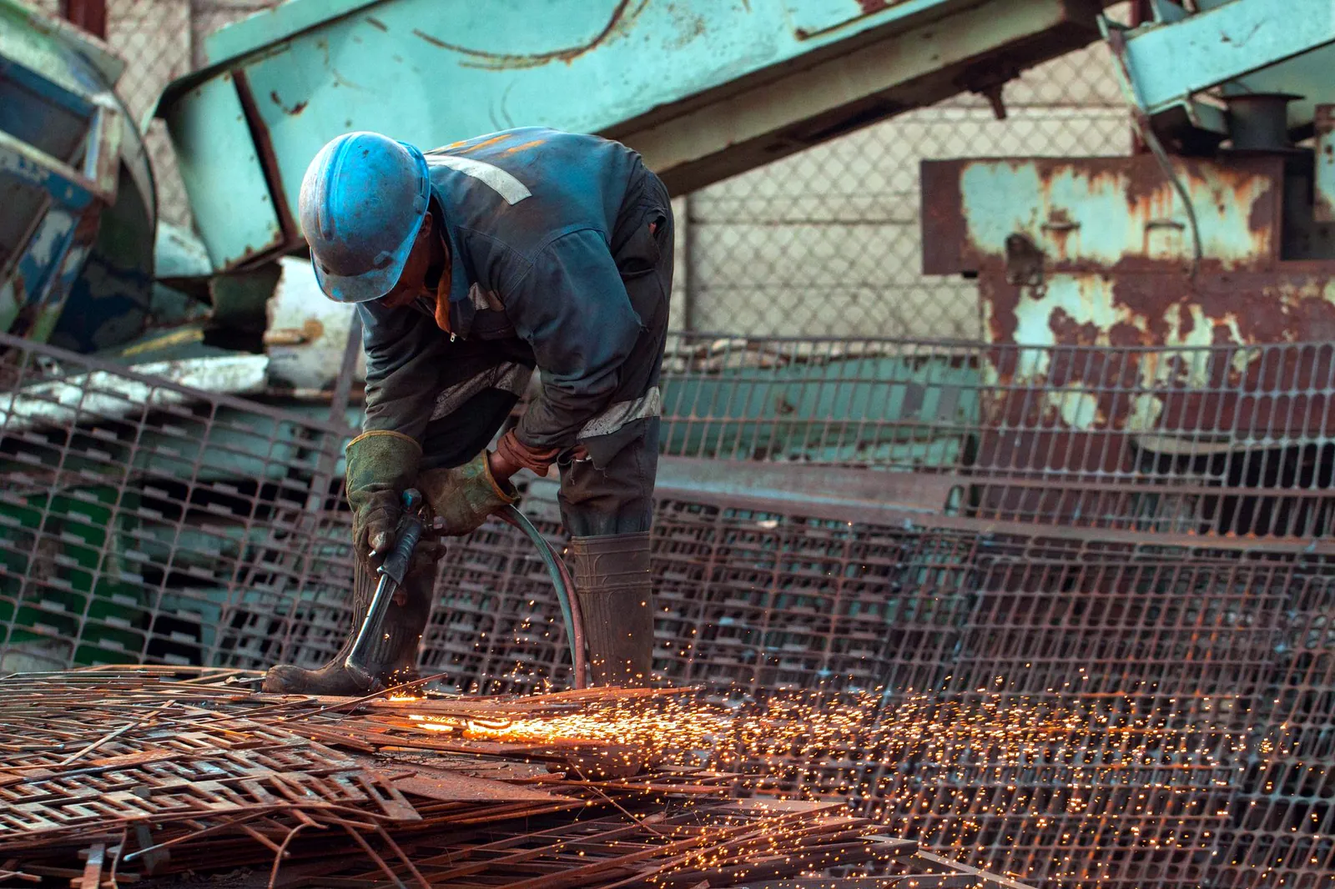
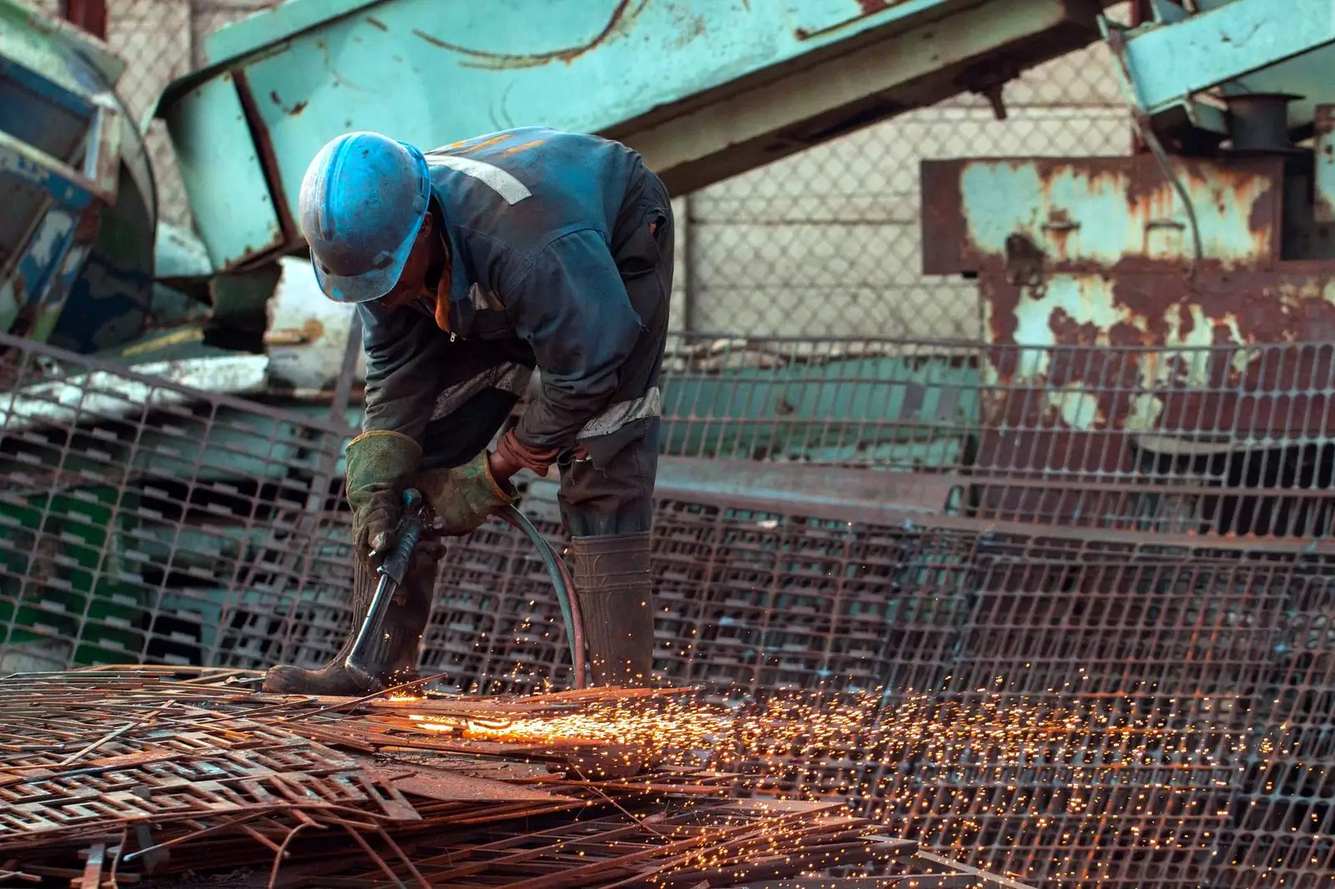
Оптимизация: скорост и подредба
- Начало: цените от 7-ма на 3-та позиция; нов ред материали → цени →
  процес → бизнес → доверие → услуги, с чиста алтернация на фоновете
- „За фирми" в главното меню на всичките 45 страници
- Херо: WebP версии (76 KB на мобилно вместо 261 KB JPG)
- Кадърът с искрите пресвит (243→166 KB)
- Scroll анимациите ускорени (.7s/24px → .4s/10px) — по-леко усещане

Claude-Session: https://claude.ai/code/session_01MrD7Hzjf8NbetQwwJgFMcP

Changed region(s): [[0.3125, 0.7739, 0.8438, 0.8668], [0.6562, 0.9906, 0.6875, 1.0]]

diff --git a/index.html b/index.html
@@ -173,6 +173,7 @@
       <li><a href="/kakvo-izkupuvame/">Какво изкупуваме</a></li>
       <li><a href="/uslugi/">Услуги</a></li>
       <li><a href="/ceni/">Цени</a></li>
+      <li><a href="/izkupuvane-metal/">За фирми</a></li>
       <li><a href="/za-nas/">За нас</a></li>
       <li><a href="/blog/">Блог</a></li>
       <li><a href="/kontakti/">Контакти</a></li>
@@ -214,7 +215,7 @@
   <div class="hero-img">
     <picture>
       <source type="image/webp" srcset="images/zhelezen-skrap-800.webp 800w, images/zhelezen-skrap.webp 1400w" sizes="(max-width:900px) 100vw, 45vw">
-      <img fetchpriority="high" decoding="async" width="1400" height="934" src="images/zhelezen-skrap.jpg" srcset="images/zhelezen-skrap-800.jpg 800w, images/zhelezen-skrap.jpg 1400w" sizes="(max-width:900px) 100vw, 45vw" alt="Изкупуване на железен скрап и черни метали в София" style="width:100%;height:100%;object-fit:cover;object-position:center;">
+      <picture><source type="image/webp" srcset="images/zhelezen-skrap-800.webp 800w, images/zhelezen-skrap.webp 1400w" sizes="(max-width:900px) 100vw, 45vw"><img fetchpriority="high" decoding="async" width="1400" height="934" src="images/zhelezen-skrap.jpg" srcset="images/zhelezen-skrap-800.jpg 800w, images/zhelezen-skrap.jpg 1400w" sizes="(max-width:900px) 100vw, 45vw" alt="Изкупуване на железен скрап и черни метали в София" style="width:100%;height:100%;object-fit:cover;object-position:center;"></picture>
     </picture>
   </div>
 </section>
@@ -249,100 +250,6 @@
       </a>
     </div>
     <div style="margin-top:28px;"><a href="/kakvo-izkupuvame/" style="color:var(--green);font-weight:700;display:inline-flex;align-items:center;gap:6px">Вижте всичко, което изкупуваме →</a></div>
-  </div>
-</section>
-
-<section class="section biz-teaser">
-  <div class="container">
-    <div class="section-label-dark">За бизнеса</div>
-    <div style="display:flex;justify-content:space-between;align-items:flex-end;gap:24px;flex-wrap:wrap;">
-      <h2 class="section-title-dark">Бизнесът Ви генерира метални отпадъци?</h2>
-      <p class="section-body-dark" style="max-width:440px;">За фирми поемаме всичко — контейнер на обекта, рязане, извозване и документите. Оферта след оглед.</p>
-    </div>
-    <div class="biz-mini">
-      <a href="/izkupuvane-metal/stroitelstvo/" class="biz-chip"><div class="ic"><svg width="22" height="22" viewBox="0 0 24 24" fill="none" stroke="#fff" stroke-width="1.8" stroke-linecap="round" stroke-linejoin="round" aria-hidden="true"><rect x="4" y="2" width="16" height="20" rx="1.5"/><path d="M9 7h0M15 7h0M9 11h0M15 11h0M9 15h0M15 15h0"/><path d="M10 22v-4h4v4"/></svg></div><h3>Строителство</h3><p>Арматура, кофраж и метал от обекти и събаряне.</p></a>
-      <a href="/izkupuvane-metal/proizvodstvo/" class="biz-chip"><div class="ic"><svg width="22" height="22" viewBox="0 0 24 24" fill="none" stroke="#fff" stroke-width="1.8" stroke-linecap="round" stroke-linejoin="round" aria-hidden="true"><path d="M2 20h20"/><path d="M4 20V9l6 4V9l6 4V6l4 2v12"/><path d="M7 16h0M13 16h0"/></svg></div><h3>Производство и металообработка</h3><p>Изрезки, стружки и технологичен отпадък.</p></a>
-      <a href="/izkupuvane-metal/zemedelie/" class="biz-chip"><div class="ic"><svg width="22" height="22" viewBox="0 0 24 24" fill="none" stroke="#fff" stroke-width="1.8" stroke-linecap="round" stroke-linejoin="round" aria-hidden="true"><circle cx="7" cy="17" r="3"/><circle cx="18" cy="17" r="2"/><path d="M4 17V7h6l3 6h5"/><path d="M10 7V5h4"/></svg></div><h3>Земеделие</h3><p>Бракувана техника, инвентар и конструкции.</p></a>
-      <a href="/izkupuvane-metal/brakuvane/" class="biz-chip"><div class="ic"><svg width="22" height="22" viewBox="0 0 24 24" fill="none" stroke="#fff" stroke-width="1.8" stroke-linecap="round" stroke-linejoin="round" aria-hidden="true"><path d="m14 13-7.5 7.5a2.12 2.12 0 0 1-3-3L11 10"/><path d="m16 16 6-6"/><path d="m8 8 6-6"/><path d="m9 7 8 8"/><path d="m21 11-8-8"/></svg></div><h3>Бракуване на активи</h3><p>Машини, съоръжения и ДМА — оценка и извозване.</p></a>
-    </div>
-    <div style="margin-top:28px;"><a href="/izkupuvane-metal/" class="btn btn-primary">Решения за бизнеса →</a></div>
-  </div>
-</section>
-
-<section class="feature-band" id="cutting">
-  <div class="container">
-    <div class="feature-split">
-      <div>
-        <div class="section-label">Услуги</div>
-        <h2 class="section-title" style="margin-bottom:16px;">Газокислородно рязане и демонтаж</h2>
-        <p class="section-body" style="margin-bottom:24px;">Разполагаме с оборудване за газокислородно рязане на метални конструкции. Демонтираме стари машини, съоръжения и метални конструкции директно на вашия обект.</p>
-        <a href="/uslugi/demontazh/" style="color:var(--yellow);font-weight:700;display:inline-flex;align-items:center;gap:6px">Научете повече за рязането →</a>
-      </div>
-      <div class="feature-img">
-        <picture><source type="image/webp" srcset="images/ryazane-metal-iskri.webp"><img loading="lazy" decoding="async" width="1920" height="1280" src="images/ryazane-metal-iskri.jpg" alt="Газокислородно рязане на метал — искри при демонтаж" class="media-cover"></picture>
-      </div>
-    </div>
-  </div>
-</section>
-
-<section class="section about-section" id="about">
-  <div class="container">
-    <div class="about-grid">
-      <picture><source type="image/webp" srcset="images/ploshtadka-progres-treyd.webp"><img loading="lazy" decoding="async" width="667" height="1000" class="about-img" src="images/ploshtadka-progres-treyd.jpg" alt="Площадка за изкупуване на скрап Прогрестрейд в София"></picture>
-      <div class="about-content">
-        <div>
-          <div class="section-label-dark">За нас</div>
-          <h2 class="section-title-dark" style="margin-bottom:16px;">Над 20 години опит в отрасъла</h2>
-          <p class="section-body-dark">Прогрестрейд работи на пазара за изкупуване на черни метали от 2002 г. Дългогодишният ни опит ни позволява да предлагаме конкурентни изкупни цени в София.</p>
-        </div>
-        <div class="advantages-grid">
-          <div class="advantage">
-            <div class="advantage-icon"><svg width="22" height="22" viewBox="0 0 24 24" fill="none" stroke="white" stroke-width="1.8" stroke-linecap="round" stroke-linejoin="round" aria-hidden="true"><path d="M12.586 2.586A2 2 0 0 0 11.172 2H4a2 2 0 0 0-2 2v7.172a2 2 0 0 0 .586 1.414l8.704 8.704a2.426 2.426 0 0 0 3.42 0l6.58-6.58a2.426 2.426 0 0 0 0-3.42z"/><circle cx="7.5" cy="7.5" r="1.2"/></svg></div>
-            <div><h3>Най-високи цени в София</h3><p>Гарантирано конкурентни изкупни цени — сравнете и вижте разликата.</p></div>
-          </div>
-          <div class="advantage">
-            <div class="advantage-icon"><svg width="22" height="22" viewBox="0 0 24 24" fill="none" stroke="white" stroke-width="1.8" stroke-linecap="round" stroke-linejoin="round" aria-hidden="true"><path d="M14 18V6a2 2 0 0 0-2-2H4a2 2 0 0 0-2 2v11a1 1 0 0 0 1 1h2"/><path d="M15 18H9"/><path d="M19 18h2a1 1 0 0 0 1-1v-3.65a1 1 0 0 0-.22-.62l-3.48-4.35A1 1 0 0 0 17.52 8H14"/><circle cx="7" cy="18" r="2"/><circle cx="17" cy="18" r="2"/></svg></div>
-            <div><h3>Бързо и лесно разтоварване</h3><p>Нашата товаро-разтоварна техника прави разтоварването лесно и безпроблемно.</p></div>
-          </div>
-          <div class="advantage">
-            <div class="advantage-icon"><svg width="22" height="22" viewBox="0 0 24 24" fill="none" stroke="white" stroke-width="1.8" stroke-linecap="round" stroke-linejoin="round" aria-hidden="true"><circle cx="12" cy="5" r="3"/><path d="M6.5 8h11l1.95 9.76A2 2 0 0 1 17.5 20h-11a2 2 0 0 1-1.95-2.24z"/></svg></div>
-            <div><h3>Точно измерване</h3><p>Калибрирани електронни везни и прозрачна процедура на приемане.</p></div>
-          </div>
-          <div class="advantage">
-            <div class="advantage-icon"><svg width="22" height="22" viewBox="0 0 24 24" fill="none" stroke="white" stroke-width="1.8" stroke-linecap="round" stroke-linejoin="round" aria-hidden="true"><path d="M16 21v-2a4 4 0 0 0-4-4H6a4 4 0 0 0-4 4v2"/><circle cx="9" cy="7" r="4"/><path d="M22 21v-2a4 4 0 0 0-3-3.87"/><path d="M16 3.13a4 4 0 0 1 0 7.75"/></svg></div>
-            <div><h3>Дружелюбен персонал</h3><p>Опитните ни служители ще ви помогнат с всеки въпрос.</p></div>
-          </div>
-        </div>
-      </div>
-    </div>
-  </div>
-</section>
-
-<section class="section clients-section" id="clients">
-  <div class="container">
-    <div style="text-align:center;margin-bottom:48px;">
-      <div class="section-label-dark" style="display:inline-block;">Наши партньори</div>
-      <h2 class="section-title-dark" style="text-align:center;">Работим с водещи компании</h2>
-    </div>
-    <div class="clients-grid">
-      <div class="client-logo"><picture><source type="image/webp" srcset="images/erb-group.webp"><img loading="lazy" decoding="async" width="400" height="227" src="images/erb-group.png" alt="ERB Group"></picture></div>
-      <div class="client-logo"><picture><source type="image/webp" srcset="images/geotechmin.webp"><img loading="lazy" decoding="async" width="400" height="84" src="images/geotechmin.png" alt="Geotechmin"></picture></div>
-      <div class="client-logo"><picture><source type="image/webp" srcset="images/skf.webp"><img loading="lazy" decoding="async" width="400" height="103" src="images/skf.png" alt="SKF"></picture></div>
-      <div class="client-logo"><picture><source type="image/webp" srcset="images/se-ead.webp"><img loading="lazy" decoding="async" width="400" height="172" src="images/se-ead.jpg" alt="СЕ ЕАД"></picture></div>
-    </div>
-  </div>
-</section>
-
-<section class="section steps-section" id="how">
-  <div class="container">
-    <div style="text-align:center;margin-bottom:8px;"><div class="section-label-dark" style="display:inline-block;">Процес</div></div>
-    <h2 class="section-title-dark" style="text-align:center;margin-bottom:0;">Как работи?</h2>
-    <div class="steps-grid">
-      <div class="step-card"><div class="step-num">1</div><h3>Обадете се</h3><p>Свържете се с нас и ни опишете какво имате за продажба.</p></div>
-      <div class="step-card"><div class="step-num">2</div><h3>Оценка</h3><p>Даваме ви цена веднага — по телефона или след оглед на материала.</p></div>
-      <div class="step-card"><div class="step-num">3</div><h3>Докарвате отпадъка или ние го взимаме от адрес</h3><p>При по-големи количества организираме транспорт и товарене на ваш адрес.</p></div>
-      <div class="step-card"><div class="step-num">4</div><h3>Плащаме веднага</h3><p>Получавате мигновенно плащане.</p></div>
-    </div>
   </div>
 </section>
 
@@ -395,6 +302,100 @@
       </div>
     </div>
     <p style="margin-top:20px;font-size:13px;color:rgba(255,255,255,0.6);line-height:1.6;">* Цените са ориентировъчни, в евро на тон, за материал, доставен на нашата площадка, и следват борсовите котировки. Обновени на 04.07.2026 г. За по-големи количества, редовно обслужване с контейнери или товарене от ваш адрес правим <a href="/ceni/" style="color:rgba(255,255,255,0.85);text-decoration:underline;">индивидуална оферта</a> — обадете се на 0877 77 55 77.</p>
+  </div>
+</section>
+
+<section class="section steps-section" id="how">
+  <div class="container">
+    <div style="text-align:center;margin-bottom:8px;"><div class="section-label-dark" style="display:inline-block;">Процес</div></div>
+    <h2 class="section-title-dark" style="text-align:center;margin-bottom:0;">Как работи?</h2>
+    <div class="steps-grid">
+      <div class="step-card"><div class="step-num">1</div><h3>Обадете се</h3><p>Свържете се с нас и ни опишете какво имате за продажба.</p></div>
+      <div class="step-card"><div class="step-num">2</div><h3>Оценка</h3><p>Даваме ви цена веднага — по телефона или след оглед на материала.</p></div>
+      <div class="step-card"><div class="step-num">3</div><h3>Докарвате отпадъка или ние го взимаме от адрес</h3><p>При по-големи количества организираме транспорт и товарене на ваш адрес.</p></div>
+      <div class="step-card"><div class="step-num">4</div><h3>Плащаме веднага</h3><p>Получавате мигновенно плащане.</p></div>
+    </div>
+  </div>
+</section>
+
+<section class="section biz-teaser">
+  <div class="container">
+    <div class="section-label-dark">За бизнеса</div>
+    <div style="display:flex;justify-content:space-between;align-items:flex-end;gap:24px;flex-wrap:wrap;">
+      <h2 class="section-title-dark">Бизнесът Ви генерира метални отпадъци?</h2>
+      <p class="section-body-dark" style="max-width:440px;">За фирми поемаме всичко — контейнер на обекта, рязане, извозване и документите. Оферта след оглед.</p>
+    </div>
+    <div class="biz-mini">
+      <a href="/izkupuvane-metal/stroitelstvo/" class="biz-chip"><div class="ic"><svg width="22" height="22" viewBox="0 0 24 24" fill="none" stroke="#fff" stroke-width="1.8" stroke-linecap="round" stroke-linejoin="round" aria-hidden="true"><rect x="4" y="2" width="16" height="20" rx="1.5"/><path d="M9 7h0M15 7h0M9 11h0M15 11h0M9 15h0M15 15h0"/><path d="M10 22v-4h4v4"/></svg></div><h3>Строителство</h3><p>Арматура, кофраж и метал от обекти и събаряне.</p></a>
+      <a href="/izkupuvane-metal/proizvodstvo/" class="biz-chip"><div class="ic"><svg width="22" height="22" viewBox="0 0 24 24" fill="none" stroke="#fff" stroke-width="1.8" stroke-linecap="round" stroke-linejoin="round" aria-hidden="true"><path d="M2 20h20"/><path d="M4 20V9l6 4V9l6 4V6l4 2v12"/><path d="M7 16h0M13 16h0"/></svg></div><h3>Производство и металообработка</h3><p>Изрезки, стружки и технологичен отпадък.</p></a>
+      <a href="/izkupuvane-metal/zemedelie/" class="biz-chip"><div class="ic"><svg width="22" height="22" viewBox="0 0 24 24" fill="none" stroke="#fff" stroke-width="1.8" stroke-linecap="round" stroke-linejoin="round" aria-hidden="true"><circle cx="7" cy="17" r="3"/><circle cx="18" cy="17" r="2"/><path d="M4 17V7h6l3 6h5"/><path d="M10 7V5h4"/></svg></div><h3>Земеделие</h3><p>Бракувана техника, инвентар и конструкции.</p></a>
+      <a href="/izkupuvane-metal/brakuvane/" class="biz-chip"><div class="ic"><svg width="22" height="22" viewBox="0 0 24 24" fill="none" stroke="#fff" stroke-width="1.8" stroke-linecap="round" stroke-linejoin="round" aria-hidden="true"><path d="m14 13-7.5 7.5a2.12 2.12 0 0 1-3-3L11 10"/><path d="m16 16 6-6"/><path d="m8 8 6-6"/><path d="m9 7 8 8"/><path d="m21 11-8-8"/></svg></div><h3>Бракуване на активи</h3><p>Машини, съоръжения и ДМА — оценка и извозване.</p></a>
+    </div>
+    <div style="margin-top:28px;"><a href="/izkupuvane-metal/" class="btn btn-primary">Решения за бизнеса →</a></div>
+  </div>
+</section>
+
+<section class="section about-section" id="about">
+  <div class="container">
+    <div class="about-grid">
+      <picture><source type="image/webp" srcset="images/ploshtadka-progres-treyd.webp"><img loading="lazy" decoding="async" width="667" height="1000" class="about-img" src="images/ploshtadka-progres-treyd.jpg" alt="Площадка за изкупуване на скрап Прогрестрейд в София"></picture>
+      <div class="about-content">
+        <div>
+          <div class="section-label-dark">За нас</div>
+          <h2 class="section-title-dark" style="margin-bottom:16px;">Над 20 години опит в отрасъла</h2>
+          <p class="section-body-dark">Прогрестрейд работи на пазара за изкупуване на черни метали от 2002 г. Дългогодишният ни опит ни позволява да предлагаме конкурентни изкупни цени в София.</p>
+        </div>
+        <div class="advantages-grid">
+          <div class="advantage">
+            <div class="advantage-icon"><svg width="22" height="22" viewBox="0 0 24 24" fill="none" stroke="white" stroke-width="1.8" stroke-linecap="round" stroke-linejoin="round" aria-hidden="true"><path d="M12.586 2.586A2 2 0 0 0 11.172 2H4a2 2 0 0 0-2 2v7.172a2 2 0 0 0 .586 1.414l8.704 8.704a2.426 2.426 0 0 0 3.42 0l6.58-6.58a2.426 2.426 0 0 0 0-3.42z"/><circle cx="7.5" cy="7.5" r="1.2"/></svg></div>
+            <div><h3>Най-високи цени в София</h3><p>Гарантирано конкурентни изкупни цени — сравнете и вижте разликата.</p></div>
+          </div>
+          <div class="advantage">
+            <div class="advantage-icon"><svg width="22" height="22" viewBox="0 0 24 24" fill="none" stroke="white" stroke-width="1.8" stroke-linecap="round" stroke-linejoin="round" aria-hidden="true"><path d="M14 18V6a2 2 0 0 0-2-2H4a2 2 0 0 0-2 2v11a1 1 0 0 0 1 1h2"/><path d="M15 18H9"/><path d="M19 18h2a1 1 0 0 0 1-1v-3.65a1 1 0 0 0-.22-.62l-3.48-4.35A1 1 0 0 0 17.52 8H14"/><circle cx="7" cy="18" r="2"/><circle cx="17" cy="18" r="2"/></svg></div>
+            <div><h3>Бързо и лесно разтоварване</h3><p>Нашата товаро-разтоварна техника прави разтоварването лесно и безпроблемно.</p></div>
+          </div>
+          <div class="advantage">
+            <div class="advantage-icon"><svg width="22" height="22" viewBox="0 0 24 24" fill="none" stroke="white" stroke-width="1.8" stroke-linecap="round" stroke-linejoin="round" aria-hidden="true"><circle cx="12" cy="5" r="3"/><path d="M6.5 8h11l1.95 9.76A2 2 0 0 1 17.5 20h-11a2 2 0 0 1-1.95-2.24z"/></svg></div>
+            <div><h3>Точно измерване</h3><p>Калибрирани електронни везни и прозрачна процедура на приемане.</p></div>
+          </div>
+          <div class="advantage">
+            <div class="advantage-icon"><svg width="22" height="22" viewBox="0 0 24 24" fill="none" stroke="white" stroke-width="1.8" stroke-linecap="round" stroke-linejoin="round" aria-hidden="true"><path d="M16 21v-2a4 4 0 0 0-4-4H6a4 4 0 0 0-4 4v2"/><circle cx="9" cy="7" r="4"/><path d="M22 21v-2a4 4 0 0 0-3-3.87"/><path d="M16 3.13a4 4 0 0 1 0 7.75"/></svg></div>
+            <div><h3>Дружелюбен персонал</h3><p>Опитните ни служители ще ви помогнат с всеки въпрос.</p></div>
+          </div>
+        </div>
+      </div>
+    </div>
+  </div>
+</section>
+
+<section class="section clients-section" id="clients">
+  <div class="container">
+    <div style="text-align:center;margin-bottom:48px;">
+      <div class="section-label-dark" style="display:inline-block;">Наши партньори</div>
+      <h2 class="section-title-dark" style="text-align:center;">Работим с водещи компании</h2>
+    </div>
+    <div class="clients-grid">
+      <div class="client-logo"><picture><source type="image/webp" srcset="images/erb-group.webp"><img loading="lazy" decoding="async" width="400" height="227" src="images/erb-group.png" alt="ERB Group"></picture></div>
+      <div class="client-logo"><picture><source type="image/webp" srcset="images/geotechmin.webp"><img loading="lazy" decoding="async" width="400" height="84" src="images/geotechmin.png" alt="Geotechmin"></picture></div>
+      <div class="client-logo"><picture><source type="image/webp" srcset="images/skf.webp"><img loading="lazy" decoding="async" width="400" height="103" src="images/skf.png" alt="SKF"></picture></div>
+      <div class="client-logo"><picture><source type="image/webp" srcset="images/se-ead.webp"><img loading="lazy" decoding="async" width="400" height="172" src="images/se-ead.jpg" alt="СЕ ЕАД"></picture></div>
+    </div>
+  </div>
+</section>
+
+<section class="feature-band" id="cutting">
+  <div class="container">
+    <div class="feature-split">
+      <div>
+        <div class="section-label">Услуги</div>
+        <h2 class="section-title" style="margin-bottom:16px;">Газокислородно рязане и демонтаж</h2>
+        <p class="section-body" style="margin-bottom:24px;">Разполагаме с оборудване за газокислородно рязане на метални конструкции. Демонтираме стари машини, съоръжения и метални конструкции директно на вашия обект.</p>
+        <a href="/uslugi/demontazh/" style="color:var(--yellow);font-weight:700;display:inline-flex;align-items:center;gap:6px">Научете повече за рязането →</a>
+      </div>
+      <div class="feature-img">
+        <picture><source type="image/webp" srcset="images/ryazane-metal-iskri.webp"><img loading="lazy" decoding="async" width="1920" height="1280" src="images/ryazane-metal-iskri.jpg" alt="Газокислородно рязане на метал — искри при демонтаж" class="media-cover"></picture>
+      </div>
+    </div>
   </div>
 </section>
 
@@ -456,50 +457,6 @@
     </div>
   </div>
 </section>
-
-<script type="application/ld+json">
-{
-  "@context": "https://schema.org",
-  "@type": "FAQPage",
-  "mainEntity": [
-    {
-      "@type": "Question",
-      "name": "Какво представляват вторичните суровини?",
-      "acceptedAnswer": { "@type": "Answer", "text": "Вторични суровини са материали, получени от рециклиране на употребявани продукти — железен скрап, черни метали, технологичен отпадък от производство. Прогрестрейд изкупува всички видове вторични суровини от черни метали на конкурентни цени." }
-    },
-    {
-      "@type": "Question",
-      "name": "Какви цени предлагате за железен скрап?",
-      "acceptedAnswer": { "@type": "Answer", "text": "Цената зависи от вида, количеството и качеството на материала. Обадете се на 0877 77 55 77 за безплатна и актуална оферта без ангажимент." }
-    },
-    {
-      "@type": "Question",
-      "name": "Идвате ли на адрес за извозване?",
-      "acceptedAnswer": { "@type": "Answer", "text": "Да. Изкупуваме желязо и вторични суровини от адрес и от място — при по-големи количества организираме безплатен транспорт и товарене на ваш адрес в София и областта." }
-    },
-    {
-      "@type": "Question",
-      "name": "В кои райони на София работите?",
-      "acceptedAnswer": { "@type": "Answer", "text": "Обслужваме цяла София и областта, включително Военна Рампа, Надежда, Подуяне, Люлин, Дружба, Гара Искър, Сточна гара и Божурище. Площадката ни е на ул. Проф. Иван Георгов 1, кв. Военна Рампа." }
-    },
-    {
-      "@type": "Question",
-      "name": "Изкупувате ли коли за скрап?",
-      "acceptedAnswer": { "@type": "Answer", "text": "Да, изкупуваме и разкомплектоваме излезли от употреба автомобили (ИУМПС) и издаваме всички документи за дерегистрация в КАТ." }
-    },
-    {
-      "@type": "Question",
-      "name": "Как и кога се извършва плащането?",
-      "acceptedAnswer": { "@type": "Answer", "text": "Плащаме веднага, при предаването на материала след претегляне и оценка." }
-    },
-    {
-      "@type": "Question",
-      "name": "Какво е работното ви време?",
-      "acceptedAnswer": { "@type": "Answer", "text": "Нашият пункт за изкупуване на вторични суровини работи от понеделник до петък, от 9:00 до 17:00 ч. Адрес: ул. Проф. Иван Георгов 1, кв. Военна Рампа, София." }
-    }
-  ]
-}
-</script>
 
 <section class="contact-band" id="contact">
   <div class="container">

diff --git a/css/site.css b/css/site.css
@@ -66,7 +66,7 @@ a{color:inherit;text-decoration:none}
 .hero-trust li{display:flex;align-items:center;gap:8px;font-size:14px;font-weight:600;color:rgba(255,255,255,0.88)}
 .hero-trust svg{flex-shrink:0}
 /* Движение при скрол */
-.js-reveal .reveal{opacity:0;transform:translateY(24px);transition:opacity .7s cubic-bezier(.2,.7,.2,1),transform .7s cubic-bezier(.2,.7,.2,1)}
+.js-reveal .reveal{opacity:0;transform:translateY(10px);transition:opacity .4s ease-out,transform .4s ease-out}
 .js-reveal .reveal.in{opacity:1;transform:none}
 @media(prefers-reduced-motion:reduce){.js-reveal .reveal{opacity:1!important;transform:none!important;transition:none!important}}
 /* Достъпност + премиум детайли */

diff --git a/blagodarim/index.html b/blagodarim/index.html
@@ -55,6 +55,7 @@
       <li><a href="/kakvo-izkupuvame/">Какво изкупуваме</a></li>
       <li><a href="/uslugi/">Услуги</a></li>
       <li><a href="/ceni/">Цени</a></li>
+      <li><a href="/izkupuvane-metal/">За фирми</a></li>
       <li><a href="/za-nas/">За нас</a></li>
       <li><a href="/blog/">Блог</a></li>
       <li><a href="/kontakti/">Контакти</a></li>

diff --git a/blog/brakuvane-dma-otpisvane-prodazhba.html b/blog/brakuvane-dma-otpisvane-prodazhba.html
@@ -50,6 +50,7 @@
       <li><a href="/kakvo-izkupuvame/">Какво изкупуваме</a></li>
       <li><a href="/uslugi/">Услуги</a></li>
       <li><a href="/ceni/">Цени</a></li>
+      <li><a href="/izkupuvane-metal/">За фирми</a></li>
       <li><a href="/za-nas/">За нас</a></li>
       <li><a href="/blog/">Блог</a></li>
       <li><a href="/kontakti/">Контакти</a></li>

diff --git a/blog/brakuvane-mashini-saorazheniya.html b/blog/brakuvane-mashini-saorazheniya.html
@@ -47,6 +47,7 @@
       <li><a href="/kakvo-izkupuvame/">Какво изкупуваме</a></li>
       <li><a href="/uslugi/">Услуги</a></li>
       <li><a href="/ceni/">Цени</a></li>
+      <li><a href="/izkupuvane-metal/">За фирми</a></li>
       <li><a href="/za-nas/">За нас</a></li>
       <li><a href="/blog/">Блог</a></li>
       <li><a href="/kontakti/">Контакти</a></li>

diff --git a/blog/brakuvane-oborudvane-proizvodstvo.html b/blog/brakuvane-oborudvane-proizvodstvo.html
@@ -47,6 +47,7 @@
       <li><a href="/kakvo-izkupuvame/">Какво изкупуваме</a></li>
       <li><a href="/uslugi/">Услуги</a></li>
       <li><a href="/ceni/">Цени</a></li>
+      <li><a href="/izkupuvane-metal/">За фирми</a></li>
       <li><a href="/za-nas/">За нас</a></li>
       <li><a href="/blog/">Блог</a></li>
       <li><a href="/kontakti/">Контакти</a></li>

diff --git a/blog/brakuvane-sluzhebni-avtomobili.html b/blog/brakuvane-sluzhebni-avtomobili.html
@@ -47,6 +47,7 @@
       <li><a href="/kakvo-izkupuvame/">Какво изкупуваме</a></li>
       <li><a href="/uslugi/">Услуги</a></li>
       <li><a href="/ceni/">Цени</a></li>
+      <li><a href="/izkupuvane-metal/">За фирми</a></li>
       <li><a href="/za-nas/">За нас</a></li>
       <li><a href="/blog/">Блог</a></li>
       <li><a href="/kontakti/">Контакти</a></li>

diff --git a/blog/dds-brakuvani-aktivi-obratno-nachislyavane.html b/blog/dds-brakuvani-aktivi-obratno-nachislyavane.html
@@ -47,6 +47,7 @@
       <li><a href="/kakvo-izkupuvame/">Какво изкупуваме</a></li>
       <li><a href="/uslugi/">Услуги</a></li>
       <li><a href="/ceni/">Цени</a></li>
+      <li><a href="/izkupuvane-metal/">За фирми</a></li>
       <li><a href="/za-nas/">За нас</a></li>
       <li><a href="/blog/">Блог</a></li>
       <li><a href="/kontakti/">Контакти</a></li>

diff --git a/blog/demontazh-gazokislorodno-ryazane.html b/blog/demontazh-gazokislorodno-ryazane.html
@@ -47,6 +47,7 @@
       <li><a href="/kakvo-izkupuvame/">Какво изкупуваме</a></li>
       <li><a href="/uslugi/">Услуги</a></li>
       <li><a href="/ceni/">Цени</a></li>
+      <li><a href="/izkupuvane-metal/">За фирми</a></li>
       <li><a href="/za-nas/">За нас</a></li>
       <li><a href="/blog/">Блог</a></li>
       <li><a href="/kontakti/">Контакти</a></li>

diff --git a/blog/dohodi-ot-skrap-neoblagaemi.html b/blog/dohodi-ot-skrap-neoblagaemi.html
@@ -70,6 +70,7 @@
       <li><a href="/kakvo-izkupuvame/">Какво изкупуваме</a></li>
       <li><a href="/uslugi/">Услуги</a></li>
       <li><a href="/ceni/">Цени</a></li>
+      <li><a href="/izkupuvane-metal/">За фирми</a></li>
       <li><a href="/za-nas/">За нас</a></li>
       <li><a href="/blog/">Блог</a></li>
       <li><a href="/kontakti/">Контакти</a></li>

diff --git a/blog/firma-predava-metalen-otpadak-dokumenti.html b/blog/firma-predava-metalen-otpadak-dokumenti.html
@@ -47,6 +47,7 @@
       <li><a href="/kakvo-izkupuvame/">Какво изкупуваме</a></li>
       <li><a href="/uslugi/">Услуги</a></li>
       <li><a href="/ceni/">Цени</a></li>
+      <li><a href="/izkupuvane-metal/">За фирми</a></li>
       <li><a href="/za-nas/">За нас</a></li>
       <li><a href="/blog/">Блог</a></li>
       <li><a href="/kontakti/">Контакти</a></li>

diff --git a/blog/index.html b/blog/index.html
@@ -59,6 +59,7 @@
       <li><a href="/kakvo-izkupuvame/">Какво изкупуваме</a></li>
       <li><a href="/uslugi/">Услуги</a></li>
       <li><a href="/ceni/">Цени</a></li>
+      <li><a href="/izkupuvane-metal/">За фирми</a></li>
       <li><a href="/za-nas/">За нас</a></li>
       <li><a href="/blog/">Блог</a></li>
       <li><a href="/kontakti/">Контакти</a></li>
